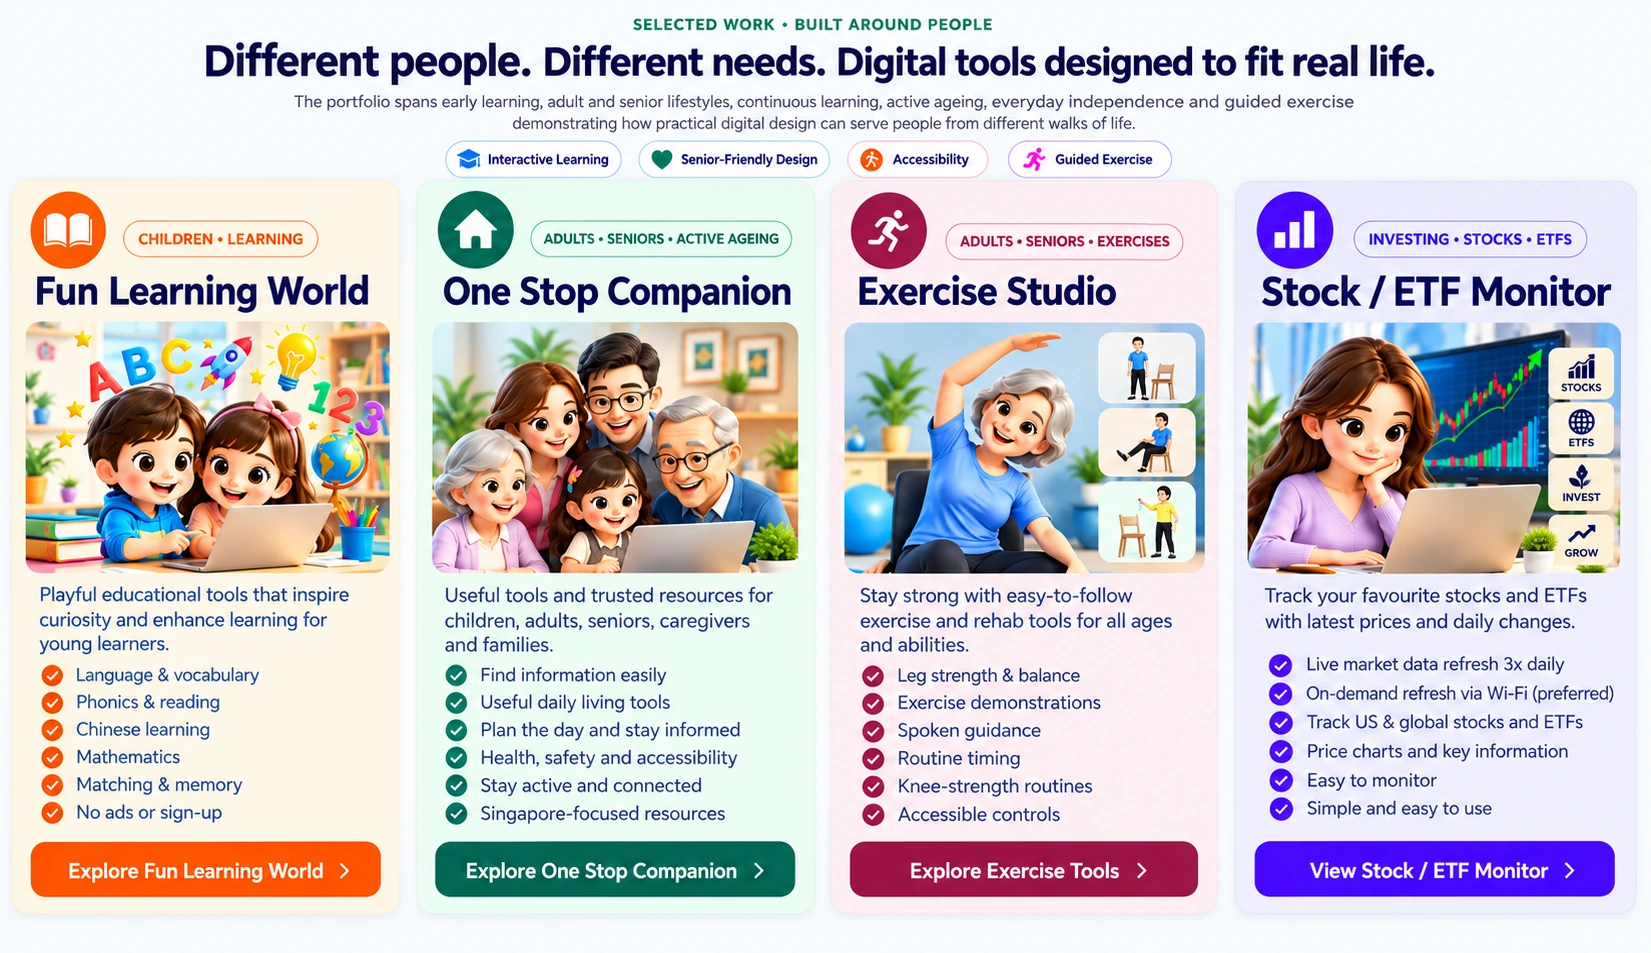
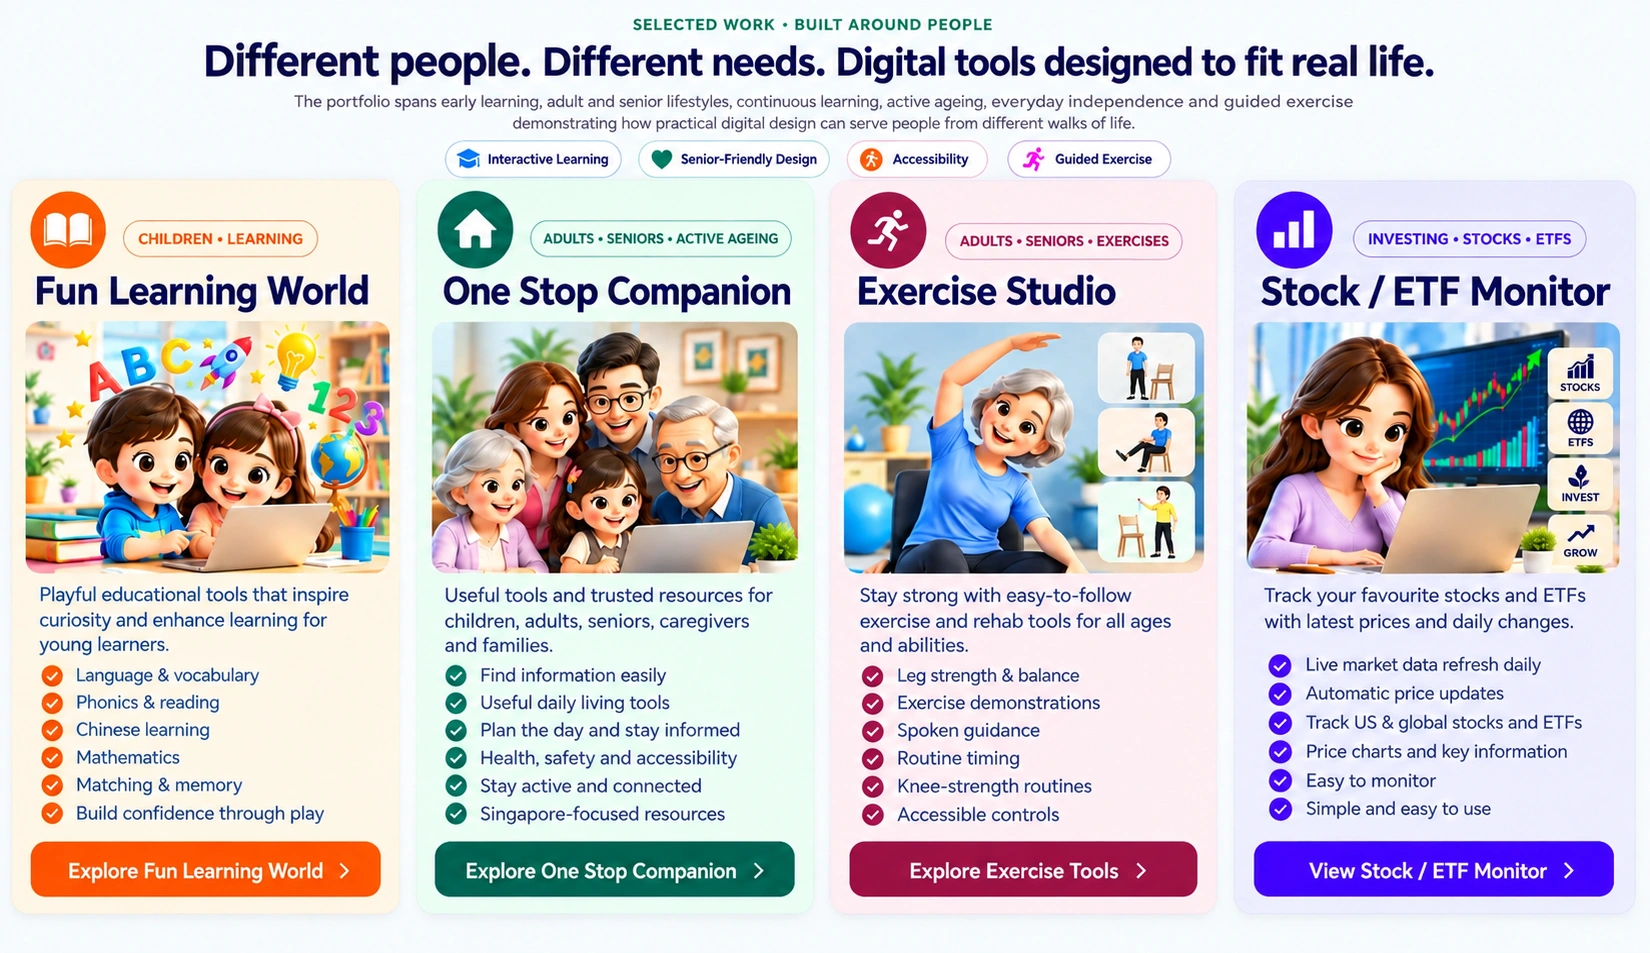
Fix mobile navigation and update tool cards and Monitor public links

diff --git a/stock-monitor/index.html b/stock-monitor/index.html
@@ -1,3 +1,3 @@
 <!doctype html><html lang="en-SG"><head><meta charset="utf-8"><meta http-equiv="Content-Security-Policy" content="default-src 'self';script-src 'self';style-src 'self' 'unsafe-inline';img-src 'self' data:;connect-src 'self' https://raw.githubusercontent.com;object-src 'none';base-uri 'self';form-action 'self'"><meta name="referrer" content="no-referrer"><meta name="viewport" content="width=device-width,initial-scale=1"><title>Stock / ETF Monitor — Digital Tools</title><style>
 :root{font-family:Arial,Segoe UI,sans-serif;color:#080873;background:#f4fafc}*{box-sizing:border-box}body{margin:0}.wrap{max-width:1280px;margin:auto;padding:22px}a{color:#0071ee}nav{margin-bottom:12px;font-size:14px}.hero{min-height:190px;border-radius:12px;padding:20px;background:linear-gradient(90deg,#e1f0fe 0%,#e1f0fee8 40%,#e1f0fe00 72%),url('../assets/stock-etf-market.webp') right center/cover}.eyebrow{display:inline-block;background:#bed8ff;border-radius:6px;padding:6px;font-size:13px;font-weight:bold}h1{font-size:clamp(28px,4vw,42px);margin:8px 0 2px}.hero p{font-size:19px;font-weight:bold;color:#4b5ee2;max-width:520px;margin:0}.bar{display:flex;align-items:center;gap:14px;justify-content:space-between;background:#e5f4fc;border-radius:10px;padding:14px;margin:12px 0;font-size:13px}.meta{margin-top:5px;color:#4b5ee2}button{font:inherit;border:1px solid #bbd7ff;border-radius:6px;cursor:pointer;min-height:40px;padding:8px 15px;background:#0072ff;color:white;font-weight:bold}button:disabled{opacity:.6;cursor:wait}.category{margin:18px 0;background:white;border:1px solid #d2eaff;border-radius:8px;overflow:hidden;box-shadow:0 2px 4px #3777a514}.group-head{display:flex;align-items:center;justify-content:space-between;background:linear-gradient(90deg,#d9edff,#eff8ff);padding:10px 14px;gap:12px}.category.stock .group-head{background:linear-gradient(90deg,#ccf8e7,#edfff7)}h2{font-size:21px;margin:0}.table-wrap{overflow:auto}table{border-collapse:collapse;width:100%;min-width:1050px;font-size:12px}th{background:#edf7fe;font-size:11px;padding:11px 8px;border:1px solid #e0eff9;color:#070783}td{padding:9px 8px;border:1px solid #e0eff9;text-align:right;white-space:nowrap}td:nth-child(-n+3){text-align:left}td:first-child{color:#0072ff;font-weight:bold}td:nth-child(3){white-space:normal;min-width:220px}.pos{color:#00a347;font-weight:bold}.neg{color:#ed182a;font-weight:bold}.row-note{display:block;font-size:10px;color:#6f7786;max-width:310px;margin-top:4px}.warning{color:#965800}.notice{background:#fff9e9;border:1px solid #ffcc6b;border-radius:7px;padding:14px;font-size:13px}.status{font-size:13px;color:#4c647d}.legend{font-size:12px;color:#526b7c;line-height:1.6}.tabs{display:flex;gap:3px}.tabs button{min-height:34px;font-size:12px}.tabs button.secondary{background:#edf7ff;color:#060778}button:focus-visible,a:focus-visible{outline:3px solid #e39f00;outline-offset:3px}@media(max-width:650px){.wrap{padding:12px}.hero{min-height:180px;background-position:60% center;background-image:linear-gradient(90deg,#e1f0feee,#e1f0fed9),url('../assets/stock-etf-market.webp')}.hero p{font-size:16px;max-width:270px}.bar{align-items:stretch;flex-direction:column}.bar button{width:100%}h2{font-size:17px}.group-head{flex-wrap:wrap}.tabs{margin-left:auto}}
-</style></head><body><main class="wrap"><nav><a href="../">⌂ Home</a> &gt; Stock / ETF Monitor · <a href="../market-watch-admin.html">Admin</a></nav><section class="hero"><span class="eyebrow">▣ MY TOOL</span><h1>Stock / ETF Monitor</h1><p>Track Stocks &amp; ETFs with latest prices.<br>Automatically updated every 15 minutes.</p></section><section class="bar"><div><strong>◷ Market data from Yahoo Finance</strong><div class="meta">Last current prices successfully refreshed: <span id="reference-time">Loading…</span></div><div class="meta">Current prices refresh every 15 minutes. Scheduled runs may be delayed. <span id="tracked"></span></div></div></section><section id="etfSection" class="category"><div class="group-head"><h2>▤ Exchange Traded Funds (ETFs)</h2><div class="tabs"><button id="jumpETF">ETFs</button><button class="secondary" id="jumpStock">Stocks</button></div><span id="etfCount"></span></div><div class="table-wrap"><table><thead></thead><tbody id="etfRows"></tbody></table></div></section><section id="stockSection" class="category stock"><div class="group-head"><h2>▥ Individual Stocks</h2><span id="stockCount"></span></div><div class="table-wrap"><table><thead></thead><tbody id="stockRows"></tbody></table></div></section><p id="status" class="status" role="status" aria-live="polite">Loading shared configuration…</p><p class="legend">On smaller screens, swipe either table sideways to see prices. Prices are in each instrument’s trading currency, shown beside the name. ATH means the highest daily high available from 1 Jan 2000 onward. Current % change compares current price with previous session close; drawdown compares current price with ATH. Provider market time is shown per row. Saved prices retain their timestamps if refresh fails.</p><p class="notice"><strong>Important:</strong> Request tickers for inclusion via Everyday Compass Contact. Market data may be delayed and is for reference only. <a href="https://sgkjeajk.github.io/digital-tools/">Digital Tools</a></p></main><script src="monitor.js"></script></body></html>
+.notice p{margin:0 0 12px;line-height:1.6}.notice-actions{display:flex;flex-wrap:wrap;gap:10px}.notice-button{display:inline-flex;align-items:center;justify-content:center;min-height:44px;padding:10px 16px;border-radius:6px;background:#0072ee;color:#fff;font-weight:bold;text-decoration:none}.notice-button:hover{background:#0059ba}</style></head><body><main class="wrap"><nav><a href="../">⌂ Home</a> &gt; Stock / ETF Monitor</nav><section class="hero"><span class="eyebrow">▣ MY TOOL</span><h1>Stock / ETF Monitor</h1><p>Track Stocks &amp; ETFs with latest prices.<br>Automatically updated every 15 minutes.</p></section><section class="bar"><div><strong>◷ Market data from Yahoo Finance</strong><div class="meta">Last current prices successfully refreshed: <span id="reference-time">Loading…</span></div><div class="meta">Current prices refresh every 15 minutes. Scheduled runs may be delayed. <span id="tracked"></span></div></div></section><section id="etfSection" class="category"><div class="group-head"><h2>▤ Exchange Traded Funds (ETFs)</h2><div class="tabs"><button id="jumpETF">ETFs</button><button class="secondary" id="jumpStock">Stocks</button></div><span id="etfCount"></span></div><div class="table-wrap"><table><thead></thead><tbody id="etfRows"></tbody></table></div></section><section id="stockSection" class="category stock"><div class="group-head"><h2>▥ Individual Stocks</h2><span id="stockCount"></span></div><div class="table-wrap"><table><thead></thead><tbody id="stockRows"></tbody></table></div></section><p id="status" class="status" role="status" aria-live="polite">Loading shared configuration…</p><p class="legend">On smaller screens, swipe either table sideways to see prices. Prices are in each instrument’s trading currency, shown beside the name. ATH means the highest daily high available from 1 Jan 2000 onward. Current % change compares current price with previous session close; drawdown compares current price with ATH. Provider market time is shown per row. Saved prices retain their timestamps if refresh fails.</p><div class="notice"><p><strong>Important:</strong> Request tickers for inclusion subject to review/approval. Submit request via Everyday Compass Contact. Market data may be delayed and is for reference only.</p><div class="notice-actions"><a class="notice-button" href="https://jjkwan118-glitch.github.io/EverydayCompass/contact.html">Everyday Compass Contact</a><a class="notice-button" href="https://sgkjeajk.github.io/digital-tools/">Digital Tools</a></div></div></main><script src="monitor.js"></script></body></html>

diff --git a/index.html b/index.html
@@ -247,7 +247,7 @@ a[href]:focus-visible,.btn:focus-visible,button:focus-visible{outline:3px solid 
 <style>
 .studio-section{background:linear-gradient(135deg,#f2f8fb,#fff5f7)}.studio-section .section-heading{margin-bottom:24px}.studio-showcase{display:grid;grid-template-columns:1fr 1.35fr;background:white;border:1px solid #d8e3eb;border-radius:24px;overflow:hidden;box-shadow:0 18px 50px #1431490c}.studio-intro{padding:40px;align-self:center}.studio-intro h3{font-size:clamp(28px,3vw,43px);line-height:1.12;letter-spacing:-.035em;color:#102b42;margin:12px 0 20px}.studio-intro>p:not(.eyebrow){font-size:16px;line-height:1.75;color:#50667a}.studio-intro .btn{margin-top:18px;background:#9f245b;color:#fff;border-color:#9f245b}.studio-art{margin:0;display:flex;flex-direction:column;background:#fff6ec}.studio-art img{width:100%;height:100%;min-height:350px;object-fit:cover;display:block;flex:1}.studio-art figcaption{padding:10px 16px;font-size:12px;color:#526577;background:#fffaf3}.studio-tools{display:grid;grid-template-columns:repeat(3,minmax(0,1fr));gap:18px;margin:24px 0}.studio-tools article{display:flex;flex-direction:column;background:#fff;padding:28px;border-radius:18px;border:1px solid #dae4eb}.studio-tools article:nth-child(2){background:#f8f6fc}.studio-tools article:nth-child(3){background:#fff6f8}.studio-tools h3{font-size:21px;line-height:1.25;color:#122d43;margin:13px 0}.studio-tools p,.studio-tools li{font-size:14px;line-height:1.7;color:#52677a}.studio-tools ul{padding-left:18px;margin:10px 0 22px}.studio-tools .btn{margin-top:auto;align-self:flex-start;font-size:13px}.studio-tools .mini{color:#9f245b}@media(max-width:850px){.studio-showcase{grid-template-columns:1fr}.studio-art img{height:auto;min-height:0;object-fit:contain}.studio-tools{grid-template-columns:1fr}.studio-intro{padding:28px}.studio-tools article{padding:24px}}
 </style>
-<style>.studio-current{background:#fff;border:1px solid #dae4eb;border-radius:16px;padding:22px 26px;margin-bottom:22px}.studio-current>strong{color:#122d43}.studio-current>div{display:flex;flex-wrap:wrap;gap:12px 24px;margin-top:12px}.studio-current a{color:#9f245b;font-size:14px;font-weight:bold;min-height:36px;display:inline-flex;align-items:center}</style><style>.monitor-showcase-section{background:linear-gradient(135deg,#f1f6ff,#f6f2ff)}.monitor-showcase-section .studio-intro .btn{background:#5230bc;border-color:#5230bc}.monitor-showcase-section .studio-tools .mini,.monitor-showcase-section .studio-current a{color:#5230bc}.monitor-showcase-section .studio-art{background:#edf6fa}.monitor-data-note{font-size:12px;color:#617385;line-height:1.7;margin:0 4px}</style></head>
+<style>.studio-current{background:#fff;border:1px solid #dae4eb;border-radius:16px;padding:22px 26px;margin-bottom:22px}.studio-current>strong{color:#122d43}.studio-current>div{display:flex;flex-wrap:wrap;gap:12px 24px;margin-top:12px}.studio-current a{color:#9f245b;font-size:14px;font-weight:bold;min-height:36px;display:inline-flex;align-items:center}</style><style>.monitor-showcase-section{background:linear-gradient(135deg,#f1f6ff,#f6f2ff)}.monitor-showcase-section .studio-intro .btn{background:#5230bc;border-color:#5230bc}.monitor-showcase-section .studio-tools .mini,.monitor-showcase-section .studio-current a{color:#5230bc}.monitor-showcase-section .studio-art{background:#edf6fa}.monitor-data-note{font-size:12px;color:#617385;line-height:1.7;margin:0 4px}</style><style id="mobile-navigation-fix">@media(max-width:760px){nav.four-tools-mobile-links{position:static;inset:auto;box-shadow:none;border:0;background:transparent;padding:0;display:grid;grid-template-columns:1fr 1fr;gap:10px;align-items:stretch}.hero{padding-top:32px}.header{position:relative}#mainNav{top:100%}} </style></head>
 <body id="top">
 <a class="skip" href="#main">Skip to main content</a>
 <header>
